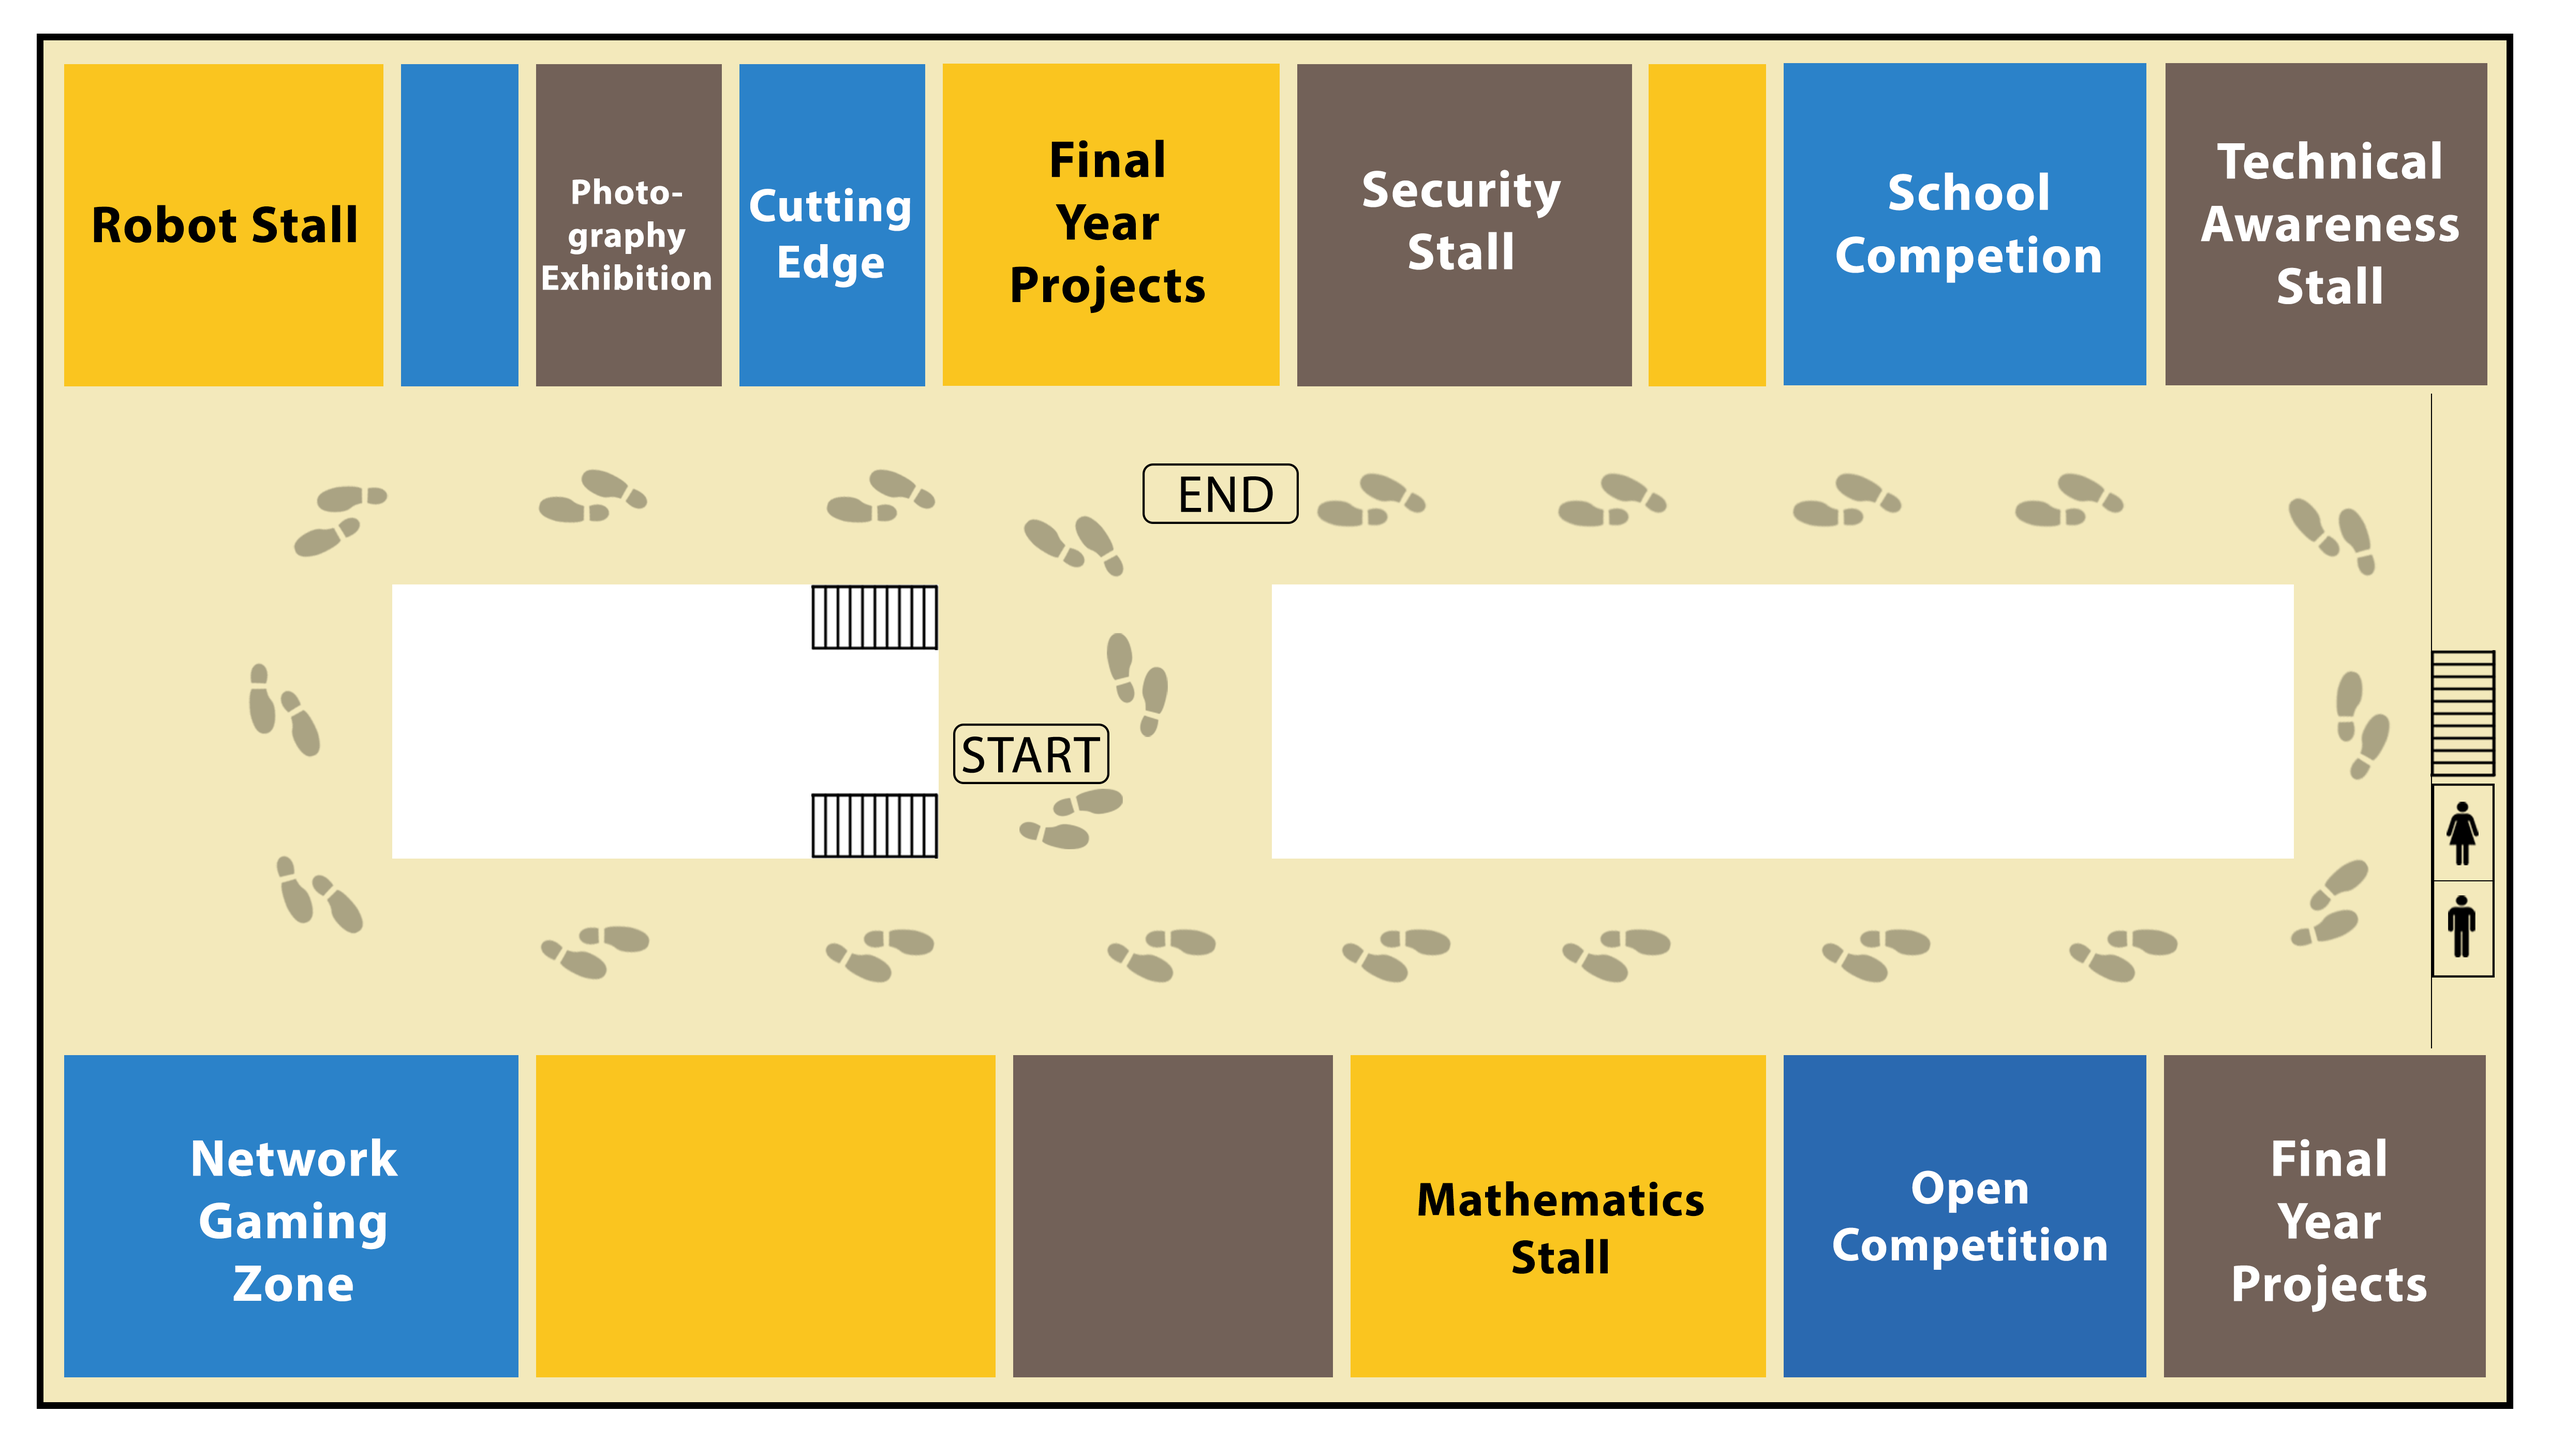
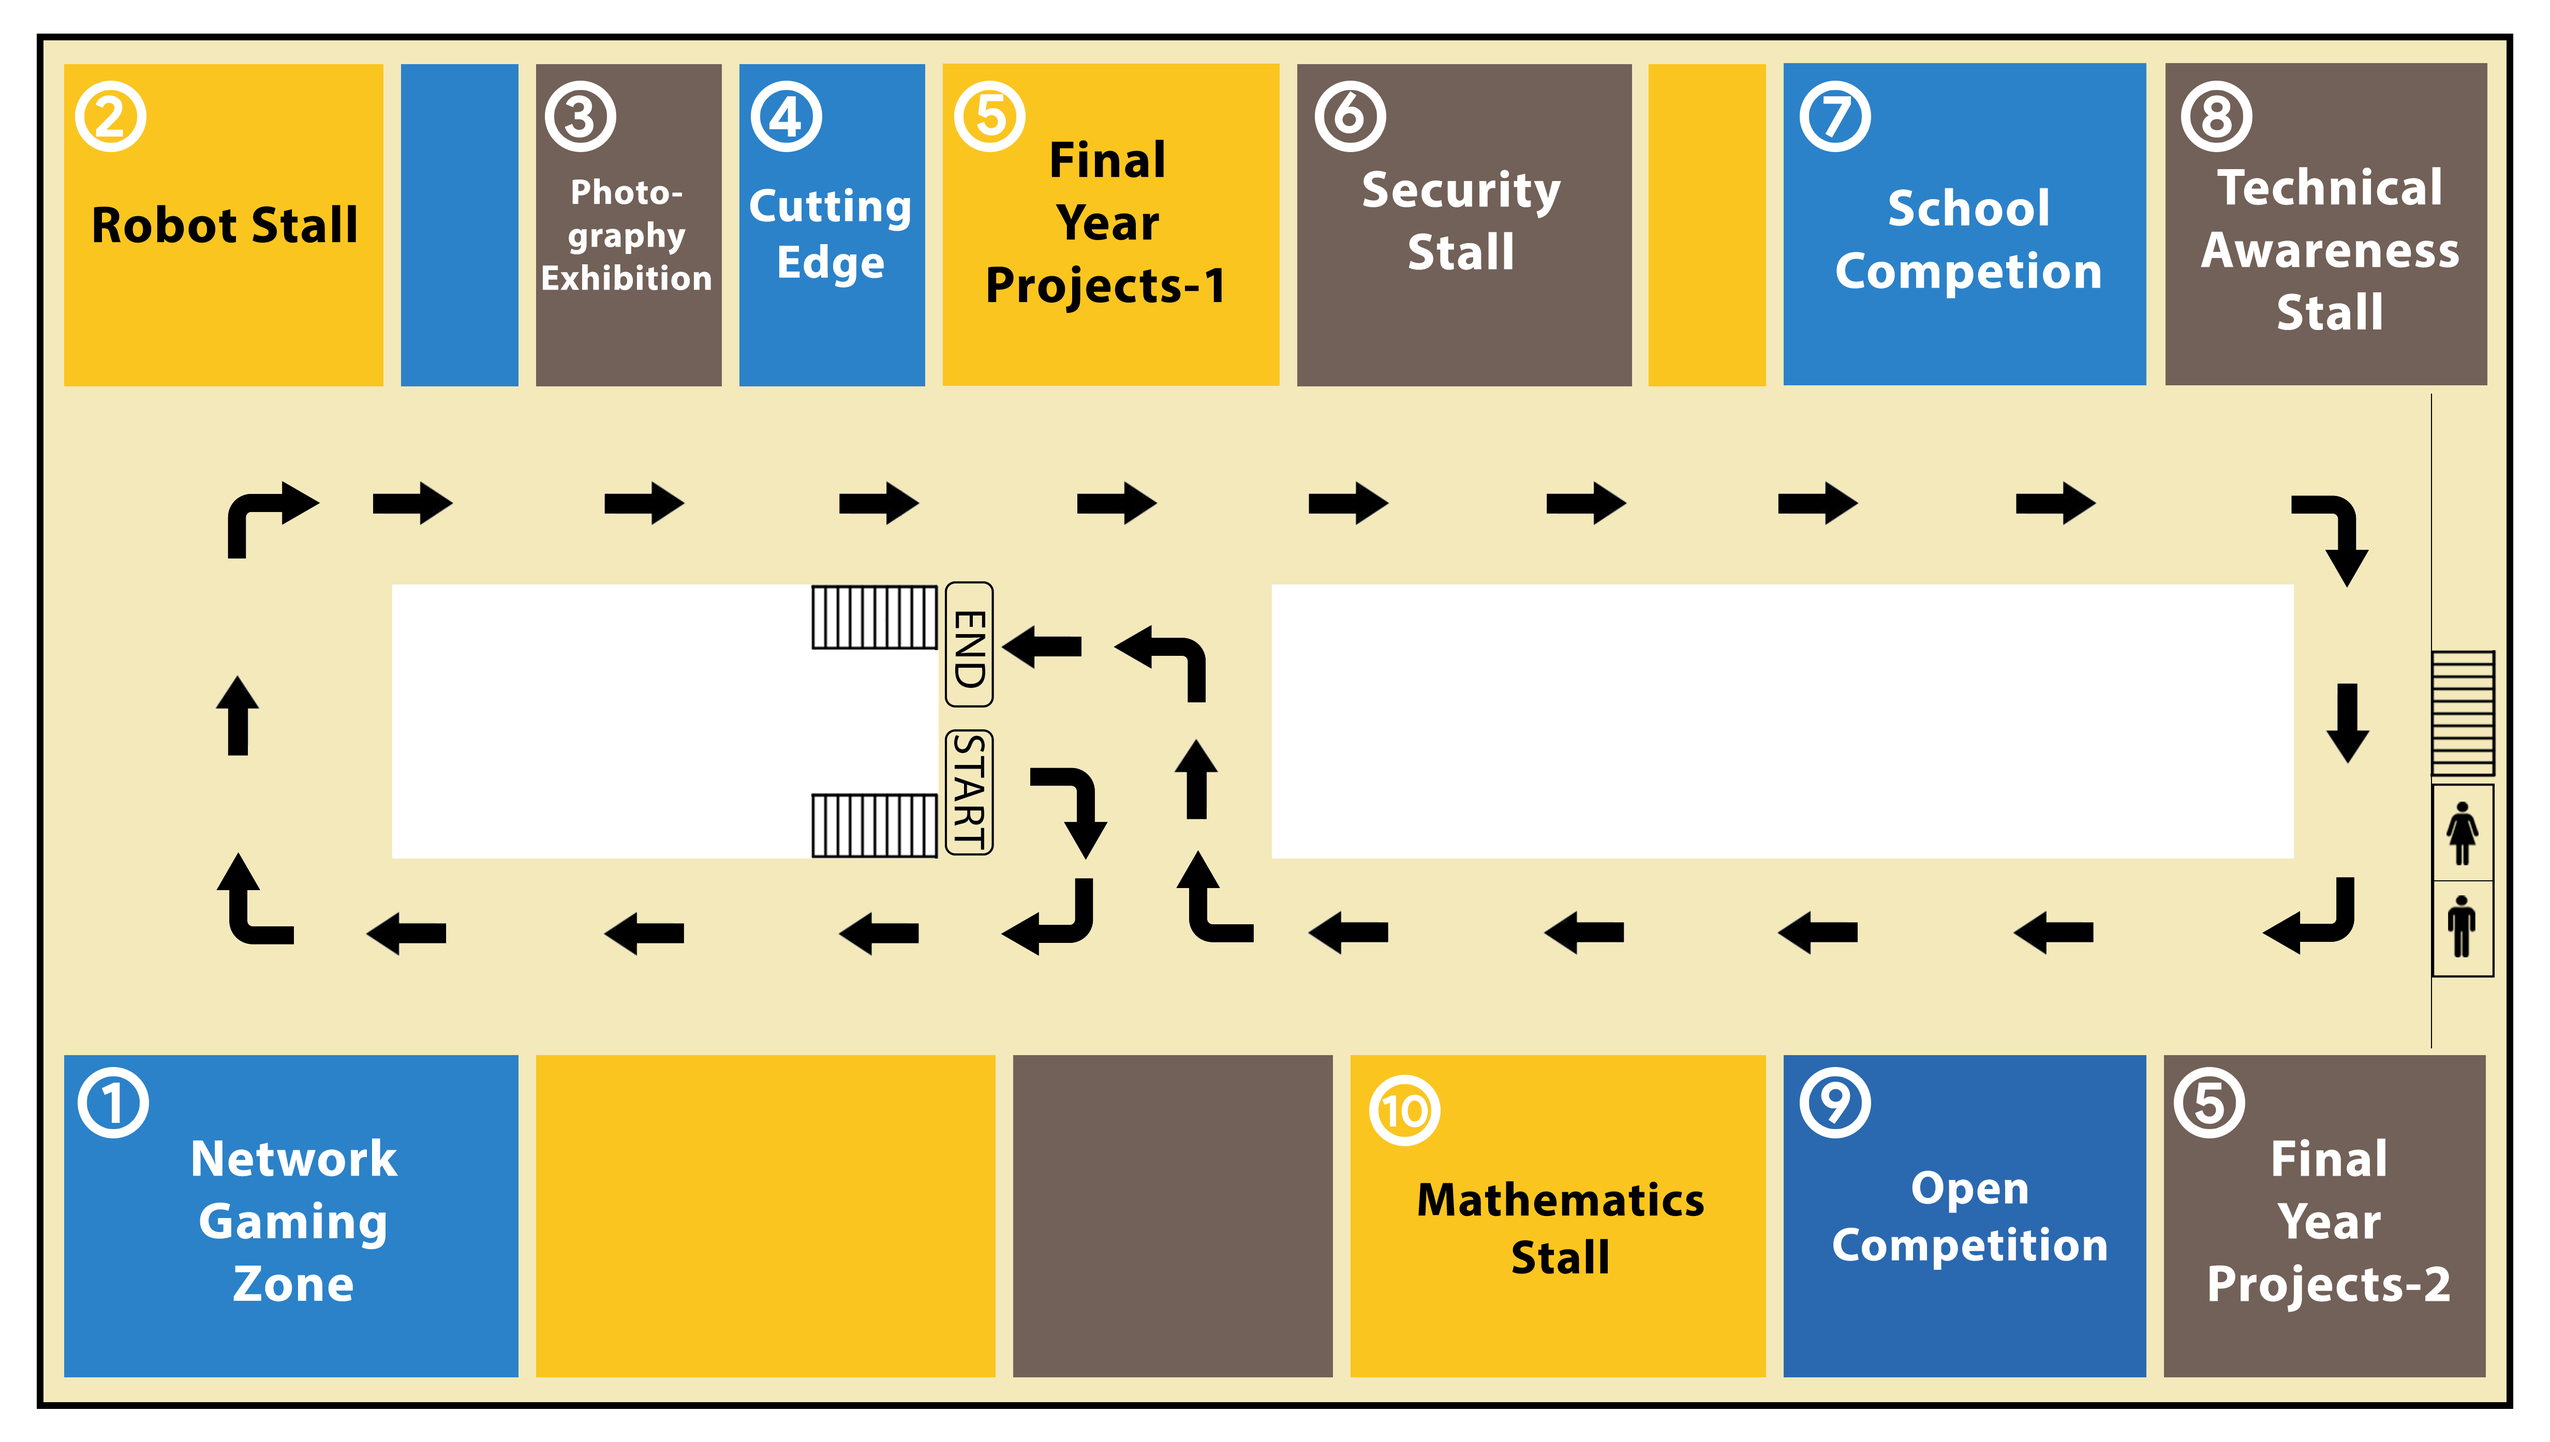
Add new routed map

diff --git a/css/general.css b/css/general.css
@@ -87,4 +87,11 @@
     font-size: 40px;
     line-height: 150px; }
 
+#form-link {
+  height: 100px;
+  width: 100px;
+  position: absolute;
+  top: 0;
+  left: 0; }
+
 /*# sourceMappingURL=general.css.map */

diff --git a/css/general.scss b/css/general.scss
@@ -134,3 +134,13 @@
     line-height: 150px;
   }
 }
+
+//============ form-link
+#form-link {
+  height: 100px;
+  width: 100px;
+  //background: red;
+  position: absolute;
+  top: 0;
+  left: 0;
+}

diff --git a/index.php b/index.php
@@ -18,6 +18,9 @@
     <title>EXMO CSE 2017</title>
 </head>
 <body>
+<a href="form.php">
+    <div id="form-link"></div>
+</a>
 <img id="header-banner" src="img/exmo_header.png" alt="">
 <div class="container-exmo">
     <img class="section-heading" src="img/headings/h_map.png" alt="">
@@ -74,68 +77,68 @@
             <div class="row ">
                 <div class="col-sm-2 col-xs-4">
 
-                        <div id="tile1" class="tile">
+                    <div id="tile1" class="tile">
 
-                            <div class="carousel slide" data-ride="carousel">
-                                <!-- Wrapper for slides -->
-                                <div class="carousel-inner">
-                                    <div class="item active">
-                                        <img src="http://handsontek.net/demoimages/tiles/twitter1.png"
-                                             class="img-responsive"/>
-                                    </div>
-                                    <div class="item">
-                                        <img src="http://handsontek.net/demoimages/tiles/twitter2.png"
-                                             class="img-responsive"/>
-                                    </div>
+                        <div class="carousel slide" data-ride="carousel">
+                            <!-- Wrapper for slides -->
+                            <div class="carousel-inner">
+                                <div class="item active">
+                                    <img src="http://handsontek.net/demoimages/tiles/twitter1.png"
+                                         class="img-responsive"/>
+                                </div>
+                                <div class="item">
+                                    <img src="http://handsontek.net/demoimages/tiles/twitter2.png"
+                                         class="img-responsive"/>
                                 </div>
                             </div>
-
                         </div>
+
+                    </div>
 
                 </div>
                 <div class="col-sm-2 col-xs-4">
 
-                        <div id="tile2" class="tile">
+                    <div id="tile2" class="tile">
 
-                            <div class="carousel slide" data-ride="carousel">
-                                <!-- Wrapper for slides -->
-                                <div class="carousel-inner">
-                                    <div class="item active">
-                                        <img src="http://handsontek.net/demoimages/tiles/hot.png"
-                                             class="img-responsive"/>
-                                    </div>
-                                    <div class="item">
-                                        <img src="http://handsontek.net/demoimages/tiles/hot2.png"
-                                             class="img-responsive"/>
-                                    </div>
-                                    <div class="item">
-                                        <img src="http://handsontek.net/demoimages/tiles/hot3.png"
-                                             class="img-responsive"/>
-                                    </div>
+                        <div class="carousel slide" data-ride="carousel">
+                            <!-- Wrapper for slides -->
+                            <div class="carousel-inner">
+                                <div class="item active">
+                                    <img src="http://handsontek.net/demoimages/tiles/hot.png"
+                                         class="img-responsive"/>
+                                </div>
+                                <div class="item">
+                                    <img src="http://handsontek.net/demoimages/tiles/hot2.png"
+                                         class="img-responsive"/>
+                                </div>
+                                <div class="item">
+                                    <img src="http://handsontek.net/demoimages/tiles/hot3.png"
+                                         class="img-responsive"/>
                                 </div>
                             </div>
-
                         </div>
+
+                    </div>
 
                 </div>
                 <div class="col-sm-2 col-xs-4">
 
-                        <div id="tile3" class="tile">
+                    <div id="tile3" class="tile">
 
-                            <div class="carousel slide" data-ride="carousel">
-                                <!-- Wrapper for slides -->
-                                <div class="carousel-inner">
-                                    <div class="item active">
-                                        <img src="http://handsontek.net/demoimages/tiles/weather2.png"
-                                             class="img-responsive"/>
-                                    </div>
-                                    <div class="item">
-                                        <img src="http://handsontek.net/demoimages/tiles/weather.png"
-                                             class="img-responsive"/>
-                                    </div>
+                        <div class="carousel slide" data-ride="carousel">
+                            <!-- Wrapper for slides -->
+                            <div class="carousel-inner">
+                                <div class="item active">
+                                    <img src="http://handsontek.net/demoimages/tiles/weather2.png"
+                                         class="img-responsive"/>
+                                </div>
+                                <div class="item">
+                                    <img src="http://handsontek.net/demoimages/tiles/weather.png"
+                                         class="img-responsive"/>
                                 </div>
                             </div>
                         </div>
+                    </div>
 
                 </div>
                 <div class="col-sm-2 col-xs-4">
